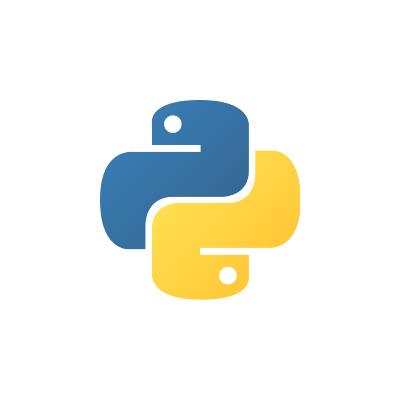
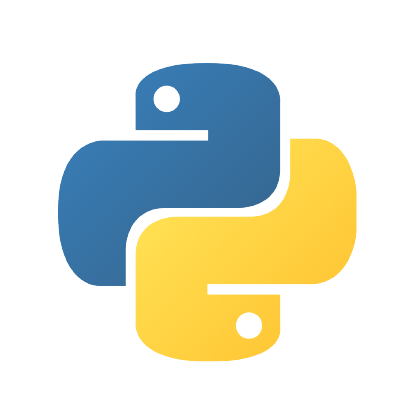
improve ui/ux

Changed region(s): [[0.12, 0.15, 0.87, 0.87]]

diff --git a/_posts/2015-07-26-index.html b/_posts/2015-07-26-index.html
@@ -39,7 +39,7 @@ redirect_from:
               <a href="/python/">
 
                 <div class="category-wrap">
-                  <div class="category-img"><img src="https://images.plot.ly/language-icons/api-home/python-logo.png"
+                  <div class="category-img"><img src="../all_static/images/python.png"
                       alt="">
                   </div>
                   <div class="category-meta">
@@ -58,7 +58,7 @@ redirect_from:
             <li>
               <a href="/r/">
                 <div class="category-wrap">
-                  <div class="category-img"><img src="https://images.plot.ly/language-icons/api-home/r-logo.png"
+                  <div class="category-img"><img src="../all_static/images/r.png"
                       alt="Plotly R API">
                   </div>
                   <div class="category-meta">
@@ -80,7 +80,7 @@ redirect_from:
             <li>
               <a href="/julia/">
                 <div class="category-wrap">
-                  <div class="category-img"><img src="../all_static/images/icon-julia.png" alt="">
+                  <div class="category-img"><img src="../all_static/images/julia.png" alt="">
                   </div>
                   <div class="category-meta">
                     <h2>Plotly Julia<br />Open Source<br />Graphing Library</h2>
@@ -103,7 +103,7 @@ redirect_from:
               <a href="/ggplot2/">
 
                 <div class="category-wrap">
-                  <div class="category-img"><img src="../all_static/images/icon-ggplot2.png" alt="">
+                  <div class="category-img"><img src="../all_static/images/ggplot2.png" alt="">
                   </div>
                   <div class="category-meta">
                     <h2>Plotly ggplot2<br />Open Source<br />Graphing Library</h2>

diff --git a/all_static/css/improve.css b/all_static/css/improve.css
@@ -364,6 +364,9 @@ body * {
 body .fa {
   font: normal normal normal 14px/1 FontAwesome !important; }
 
+.page.\--home .\--documentation-categories ul li .category-img {
+  background-color: transparent !important; }
+
 #advanced-options .--grid-list {
   display: flex;
   flex-wrap: wrap;

diff --git a/scss/improve.scss b/scss/improve.scss
@@ -477,6 +477,11 @@ body * {
 body .fa {
   font: normal normal normal 14px/1 FontAwesome !important;
 }
+.page.\--home .\--documentation-categories ul li .category-img
+{
+  background-color: transparent !important;
+
+}
 
 #advanced-options .--grid-list {
   display: flex;
